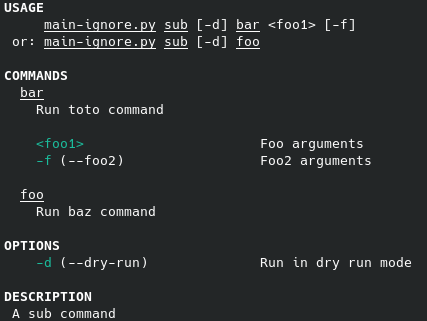
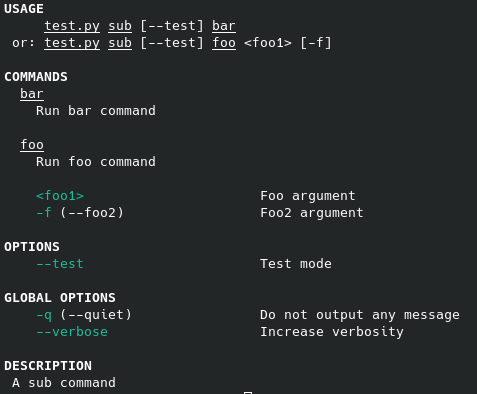
updating README

diff --git a/piou/test.py b/piou/test.py
@@ -46,15 +46,13 @@ sub_cmd = cli.add_sub_parser(cmd='sub', description='A sub command')
 sub_cmd.add_option('--test', help='Test mode')
 
 
-@sub_cmd.command(cmd='bar', help='Run baz command')
-def baz_bar_main(
-        **kwargs
-):
-    pass
+@sub_cmd.command(cmd='bar', help='Run bar command')
+def sub_bar_main(**kwargs):
+    print('Running sub-bar command')
 
 
-@sub_cmd.command(cmd='toto', help='Run toto command')
-def toto_main(
+@sub_cmd.command(cmd='foo', help='Run foo command')
+def sub_foo_main(
         test: bool,
         quiet: bool,
         verbose: bool,

diff --git a/README.md b/README.md
@@ -35,15 +35,15 @@ The output will look like this:
 # Why ?
 
 I could not find a library that provided:
- - the same developer experience than [FastAPI](https://fastapi.tiangolo.com/) 
- - customization of the interface (to build a CLI similar to the one of [Poetry](https://python-poetry.org/))
- - type validation / casting
+
+- the same developer experience than [FastAPI](https://fastapi.tiangolo.com/)
+- customization of the interface (to build a CLI similar to the one of [Poetry](https://python-poetry.org/))
+- type validation / casting
 
 [Typer](https://github.com/tiangolo/typer) is the closest alternative in terms of experience but lacks the possibility
 to format the output is a custom way using external libraries (like [Rich](https://github.com/willmcgugan/rich)).
 
 **Piou** provides all these possibilities and lets you define your own [Formatter](#custom-formatter).
-
 
 # Install
 
@@ -129,27 +129,32 @@ from piou import Cli, Option
 
 cli = Cli(description='A CLI tool')
 
+
+@cli.command(cmd='foo', help='Run foo command')
+def foo_main():
+    pass
+
+
 sub_cmd = cli.add_sub_parser(cmd='sub', description='A sub command')
+sub_cmd.add_option('--test', help='Test mode')
 
-sub_cmd.add_option('--dry-run', help='Run in dry run mode')
 
-
-@sub_cmd.command(cmd='baz', help='Run baz command')
-def baz_bar_main(**kwargs):
+@sub_cmd.command(cmd='bar', help='Run bar command')
+def sub_bar_main(**kwargs):
     pass
 
 
 @sub_cmd.command(cmd='foo', help='Run foo command')
-def toto_main(
-        foo1: int = Option(..., help='Foo arguments'),
-        foo2: str = Option(..., '-f', '--foo2', help='Foo2 arguments'),
+def sub_foo_main(
+        test: bool,
+        foo1: int = Option(..., help='Foo argument'),
+        foo2: str = Option(..., '-f', '--foo2', help='Foo2 argument'),
 ):
     pass
 
 
 if __name__ == '__main__':
     cli.run()
-
 ```
 
 ![example](https://github.com/Andarius/piou/raw/master/docs/sub-cmd-output.png)
